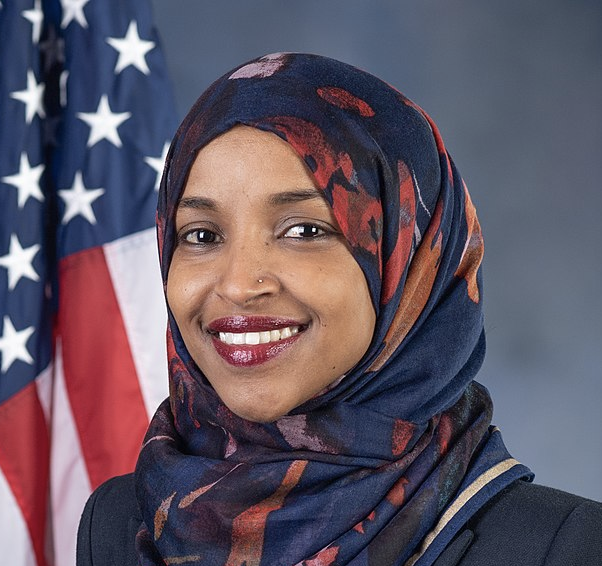
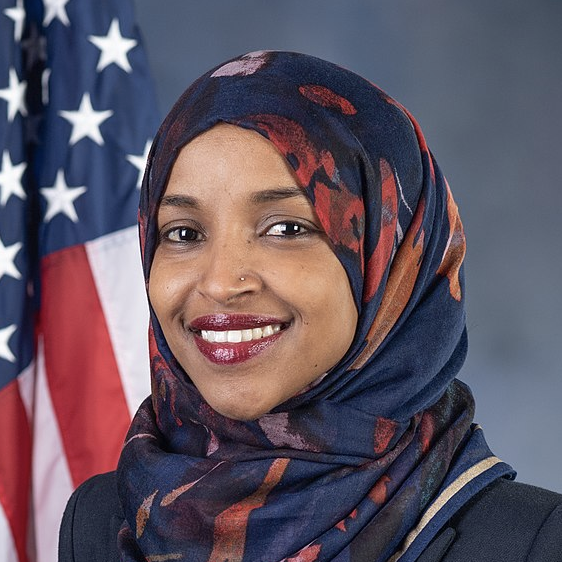
Updated the text on links to make it more concise/a little larger. Also updated a couple of candidate images that were too small/not square

diff --git a/static/js/nodelink.js b/static/js/nodelink.js
@@ -354,7 +354,7 @@ NodeLink.prototype.updateVis = function() {
             .classed('noselect', true)
             .style("text-anchor","middle")
             .style("opacity", 0)
-            .style("font-size", "10px")
+            .style("font-size", "11px")
             .attr("startOffset", d => {
                 let offset = d.direction === "outbound" ? 62 : 50;
                 offset = (d.nodeAngle > 90 || d.nodeAngle < -90) ? (100 - offset) : offset;
@@ -362,7 +362,7 @@ NodeLink.prototype.updateVis = function() {
             })
             .style("stroke", (d) => d.direction === "outbound" ? "blue" : "green")
             .text((d) => {
-                return `${d3.format(".1f")(d.pct_val)}% of ${d.source_name} donors donated to ${d.target_name}`
+                return `${d.source_name} donors to ${d.target_name}: ${d3.format(".1f")(d.pct_val)}%`
             });
 
     // console.log("Appended Link Text 2", performance.now() - vis.start);
